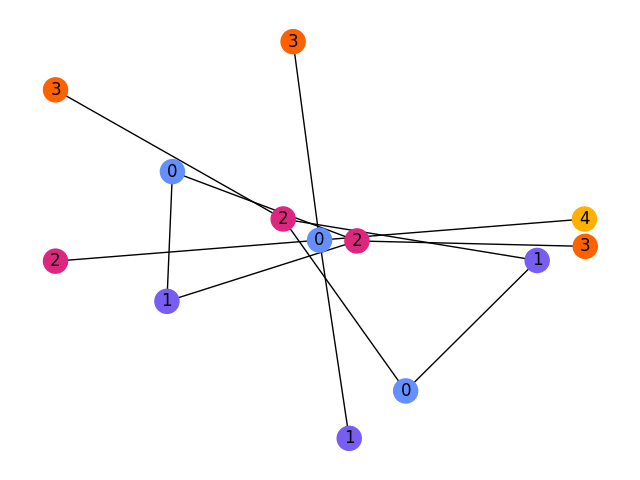
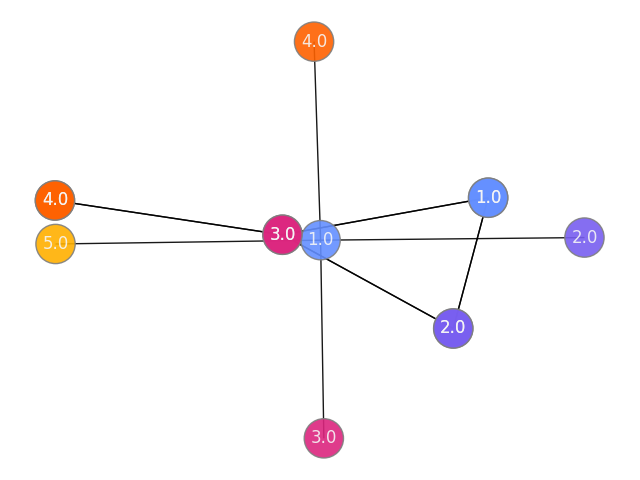
update ex0

diff --git a/Exercise_0/PR_lecture/Exercise_0/ex0.py b/Exercise_0/PR_lecture/Exercise_0/ex0.py
@@ -14,6 +14,7 @@ from typing import List
 import networkx as nx
 import numpy as np
 import os
+import itertools
 
 from utils import load_graph, draw_graph, COLOR_MAP, NODE_LABEL
 
@@ -42,9 +43,12 @@ def part1() -> List[nx.Graph]:
                 graph = load_graph(entry.path)
                 name = entry.name.removesuffix(".graphml")
                 filename = f"./drawings/{name}.png"
-                node_color = list(COLOR_MAP.values())[: graph.number_of_nodes()]
-                draw_graph(graph, filename, node_color=node_color)
+                num_nodes = graph.number_of_nodes()
+                labels = dict(list(NODE_LABEL.items())[:num_nodes])
+                node_color = list(COLOR_MAP.values())[:num_nodes]
+                draw_graph(graph, filename, labels, node_color, nx.spring_layout)
                 graphs.append(graph)
+    print(graphs)
     return graphs
 
 
@@ -66,7 +70,13 @@ def naive_graph_isomorphism(graph1: nx.Graph, graph2: nx.Graph) -> bool:
         Returns True if the input graphs are isomorphic, else False.
     """
     # Code here
-    return False
+    if graph1.number_of_nodes() != graph2.number_of_nodes():
+        return False
+    if graph1.number_of_edges() != graph2.number_of_edges():
+        return False
+    if graph1.nodes != graph2.nodes:
+        return False
+    return True
 
 
 def part2(graphs: List[nx.Graph]) -> None:
@@ -83,7 +93,10 @@ def part2(graphs: List[nx.Graph]) -> None:
 
     """
     # Code here
-    pass
+    for graph1, graph2 in itertools.combinations(graphs, 2):
+        is_isomorphism = naive_graph_isomorphism(graph1, graph2)
+        print(f"{graph1} compare {graph2} is {is_isomorphism}")
+
 
 
 def main():
@@ -91,7 +104,7 @@ def main():
     graphs = part1()
 
     # Run part 2
-    # part2(graphs)
+    part2(graphs)
 
 
 if __name__ == "__main__":

diff --git a/Exercise_0/PR_lecture/Exercise_0/utils.py b/Exercise_0/PR_lecture/Exercise_0/utils.py
@@ -18,7 +18,16 @@ COLOR_MAP = {
     7.0: "#420E00",
 }
 
-NODE_LABEL = "x"
+# NODE_LABEL = "x"
+NODE_LABEL = {
+    "0": 1.0,
+    "1": 2.0,
+    "2": 3.0,
+    "3": 4.0,
+    "4": 5.0,
+    "5": 6.0,
+    "6": 7.0,
+}
 
 ###############
 #   UTILS     #
@@ -60,5 +69,15 @@ def draw_graph(
 
     """
     # Code here
-    nx.draw(graph, node_color=node_color, with_labels=True)
+    pos = layout(graph, seed=3113794652)
+    options = {
+        "alpha": 0.9,
+        "node_size": 800,
+        "edgecolors": "tab:gray",
+        "font_color": "whitesmoke",
+        "node_color": node_color,
+        "labels": labels,
+        "with_labels": True,
+    }
+    nx.draw(graph, pos, **options)
     plt.savefig(filename)
